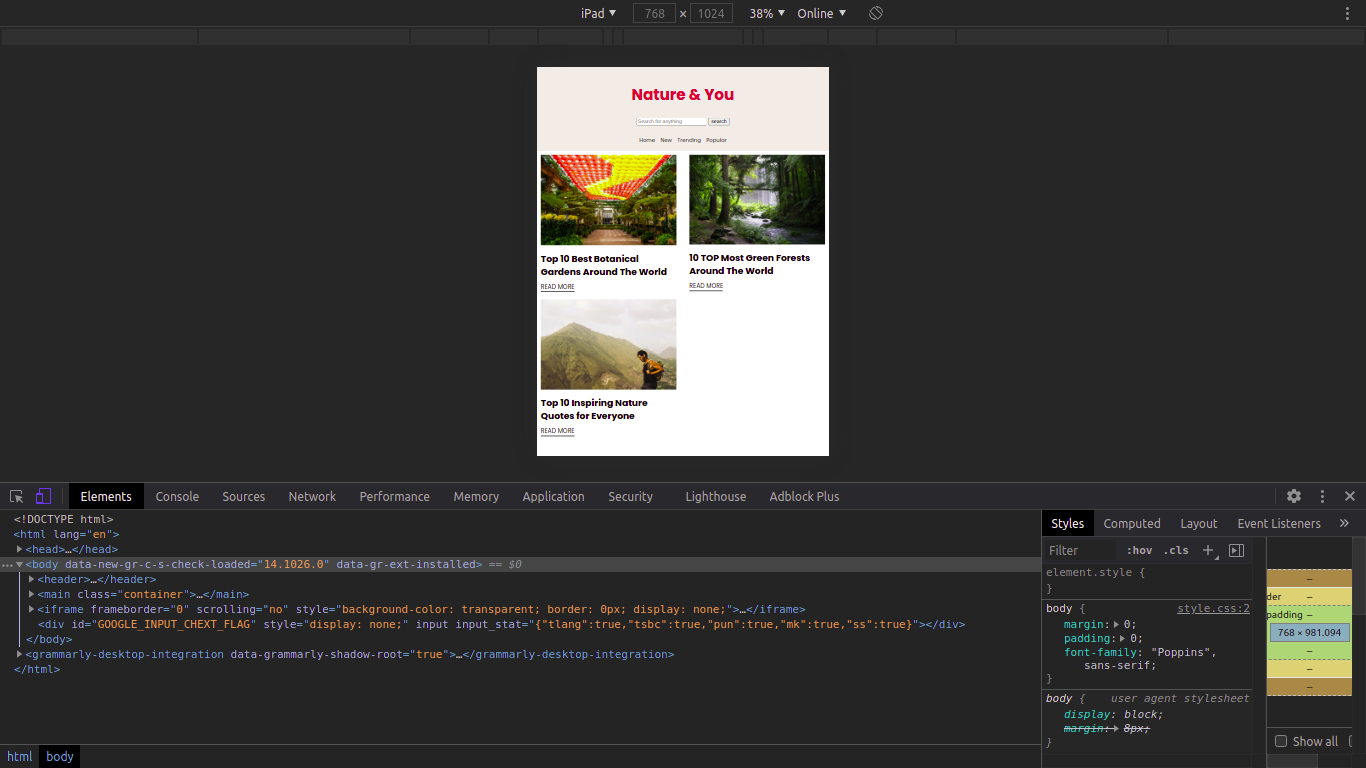
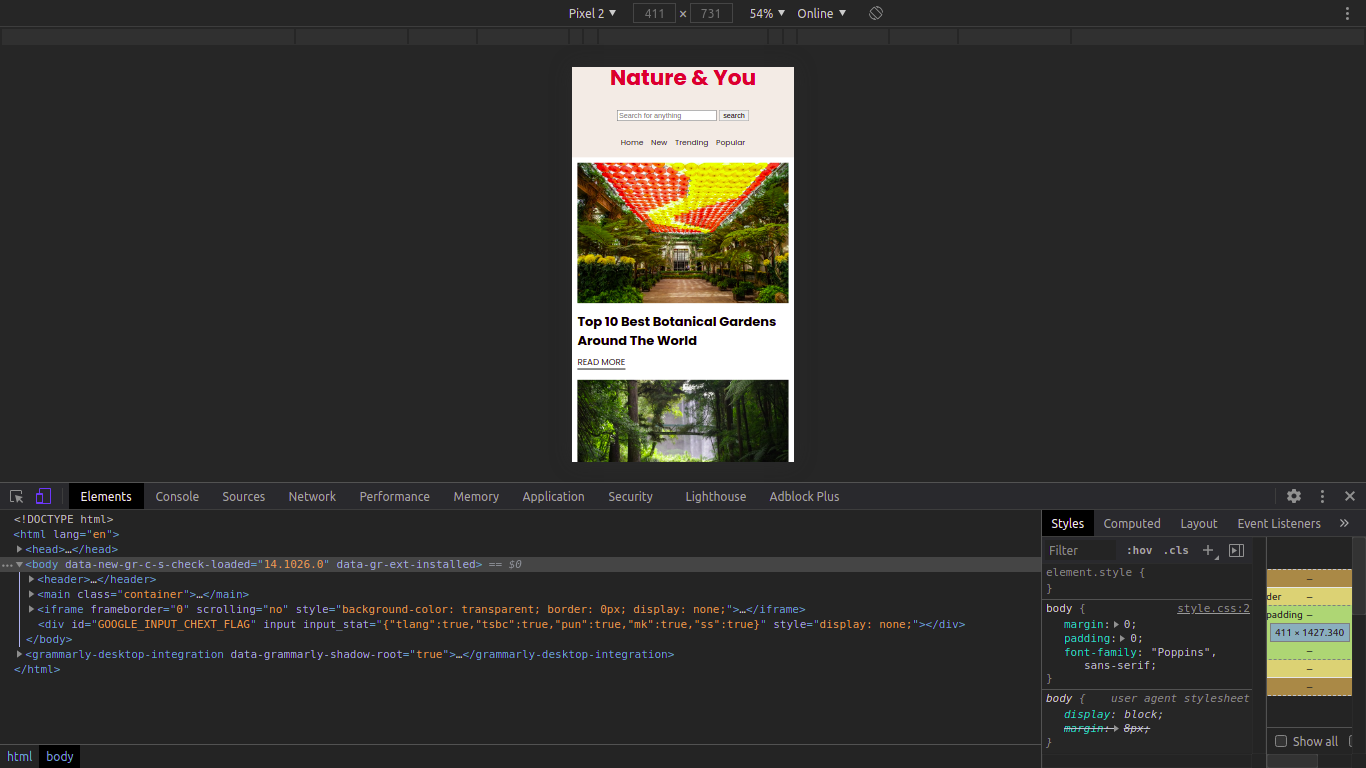
Screenshots

diff --git a/css/style.css b/css/style.css
@@ -71,9 +71,6 @@ header nav a {
     margin-bottom: 10px;
   }
   .cards .card .read-more {
-    display: block;
-    font-size: 30px;
-    background-color: blue;
     text-transform: uppercase;
     border-bottom: solid 2px #2e2e2e;
   }
